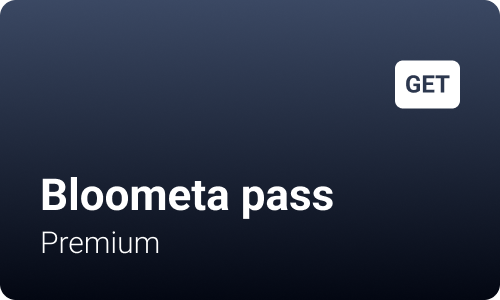
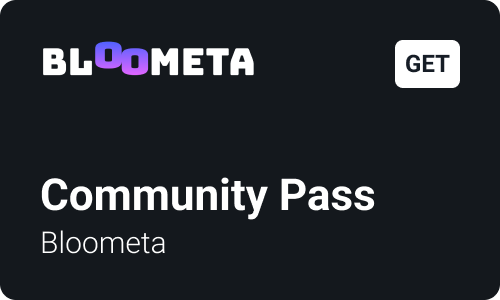
update bloometa

diff --git a/templates/op_issuer_qrcode_bloometa.html b/templates/op_issuer_qrcode_bloometa.html
@@ -1,12 +1,10 @@
 <!DOCTYPE html>
 <!-- qrcode 2 -->
-<html style="background-color: {{ page_background_color }} ">
-  <head>
-   
+<html >
+  <head> 
     <meta charset="utf-8">
    <meta name="viewport" content="width=300px, initial-scale=1, maximum-scale=1">  
     <link rel="shortcut icon" type="image/png" href="{{ url_for('static', filename='./img/3D.ico') }}"/>
-    <title>{{company_name}}</title>
     <link rel = "stylesheet" type= "text/css" href= "{{ url_for('static', filename='bootstrap.min.css') }}">
     <link rel = "stylesheet" type= "text/css" href= "{{ url_for('static', filename='Footer-Clean.css') }}">
     <link rel = "stylesheet" type= "text/css" href= "{{ url_for('static', filename='fontawesome/css/all.css') }}"> 
@@ -14,12 +12,10 @@
   <body >
 
         <div id="content_desktop" class="d-none d-sm-block " style="background-color: {{page_background_color}} " >
-
-          
           <font color="{{page_text_color}}">  
-
-          <div class="mt-2 p-2">
-            <a href="https://altme.io"><img  src="/static/img/bloometa.png" style="width: 200px;border-radius:0px;"></a>
+            <br>
+          <div>
+            <a href="https://bloometa.com"><img  class="ml-2" src="/static/img/bloometa.png" style="width: 200px;border-radius:0px;"></a>
           </div>
           
           <div class="text-center mt-5">
@@ -50,6 +46,7 @@
                 </div>
               </div>  
             </div>  
+           
           </div>  
 
           {% if back_button  %}
@@ -57,6 +54,7 @@
             <button  onclick="goBack()" class="btn btn-outline-secondary mt-2">Back to configurator</button>
           </div>  
           {% endif %}
+          <br> <br> <br> <br> <br> <br> <br> <br> <br> <br> <br>
         </div>
         
         
@@ -77,7 +75,7 @@
             
             </div>  
 
-            {% include 'footer.html' %}
+       
        
     <script src="{{ url_for('static', filename='jquery-3.5.1.slim.min.js') }}"></script>
     <script src="{{ url_for('static', filename='bs-init.js') }}"></script>
